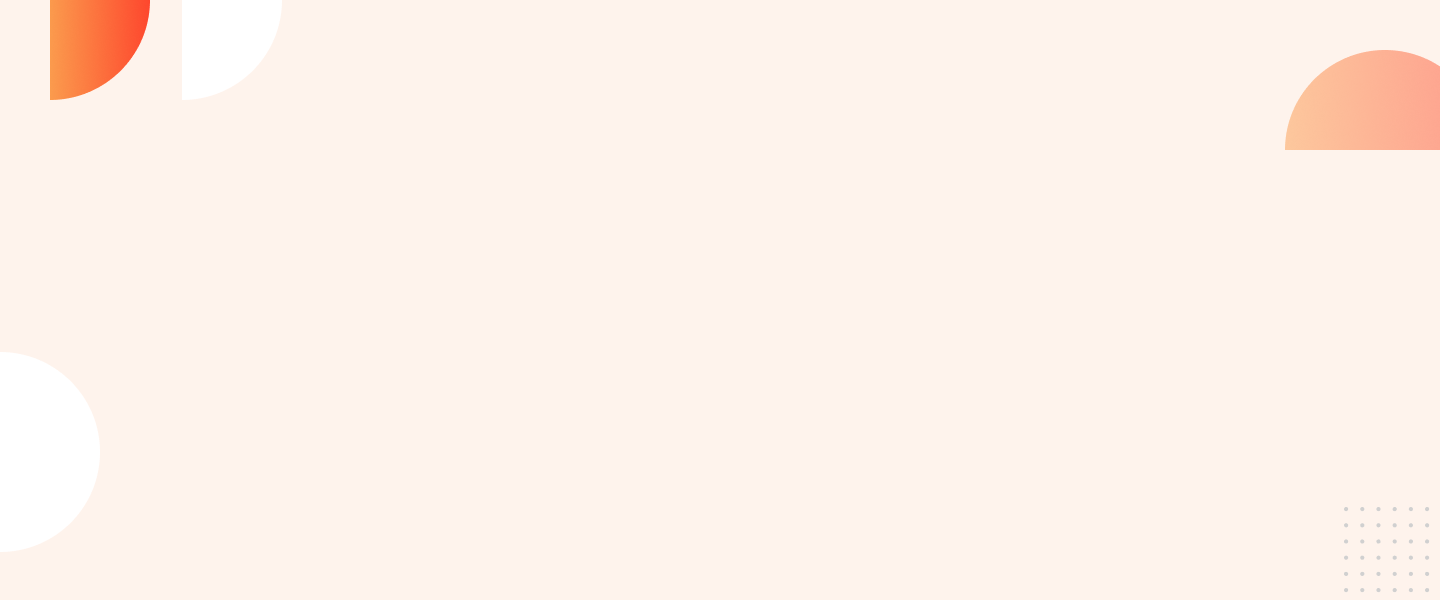
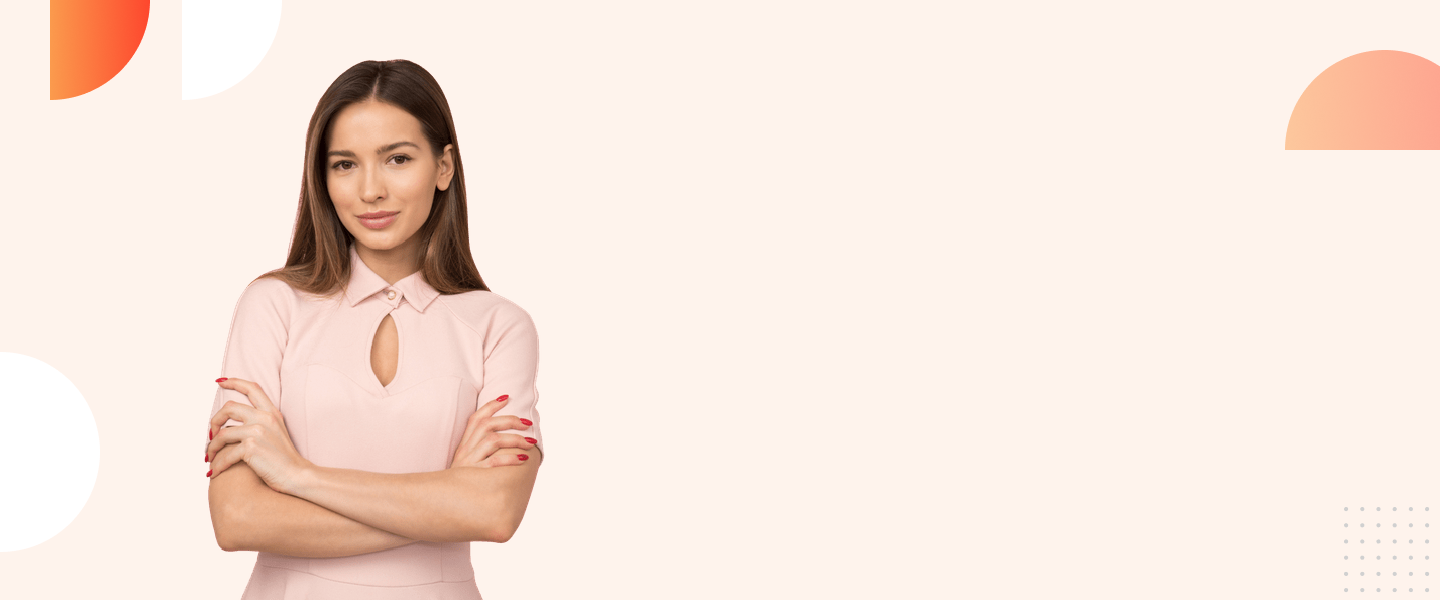
background image and about me added

Changed region(s): [[0.125, 0.09, 0.375, 1.0]]

diff --git a/index.html b/index.html
@@ -24,6 +24,19 @@
             <div class="haif-width">
                <img src="images/female/Group 8425.png" alt="">
             </div>
-          </section>
+            </section>
+
+            <section>
+               <div class="background-image">
+                  <div class="about-me">
+                        <h1>About Me</h1>
+                        <p>Kate Winslet dolor sit amet, consectetur adipiscing
+                            elit. Condimentum diam orci pretium a pharetra,
+                            feugiat cursus. Dictumst risus, sem egestas odio cras
+                            adipiscing vulputate. Nisi, risus in suscipit non. Non commodo volutpat, pharetra, vel</p>
+                            <a class="link-button" target="balnk" href="https://pizzahutbd.com/">Contact Me</a>
+                  </div>
+               </div>
+            </section>
 </body>
 </html>

diff --git a/style.css b/style.css
@@ -13,6 +13,7 @@ section{
 .haif-width{
     width: 50%;
     padding-left: 5%;
+    margin-top: 200px;
 }
 .haif-width img{
     width: 90%;
@@ -22,4 +23,17 @@ section{
     background-image: linear-gradient(orange, tomato);
     padding: 10px 40px;
     border-radius: 30px;
+}
+.background-image{
+    background-image: url(images/shapes/7.png);
+    background-repeat: no-repeat;
+    height: 100vh;
+    background-size: contain;
+    position: relative;
+    margin-top: 20px;
+}
+.about-me{
+    width: 30%;
+    padding-left:  55%;
+    margin-top: 200px;
 }
